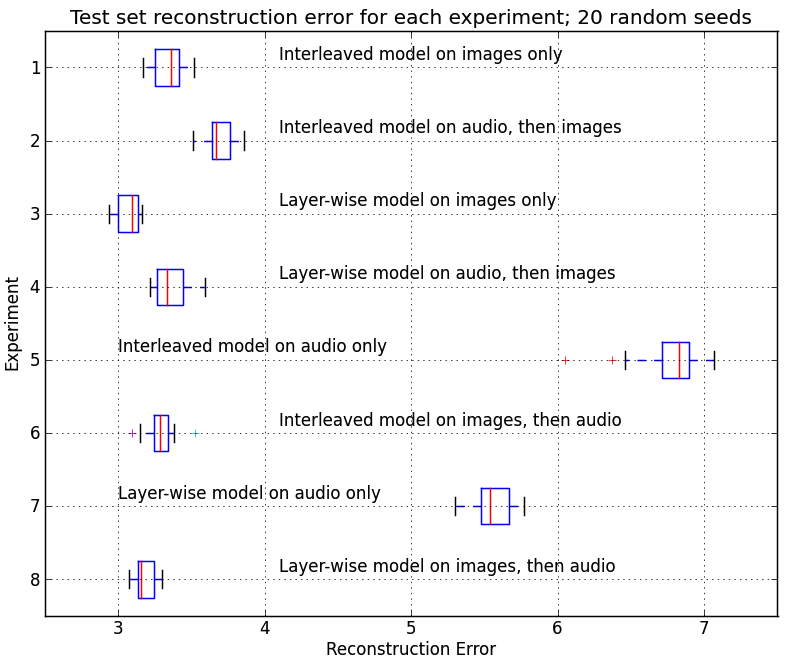
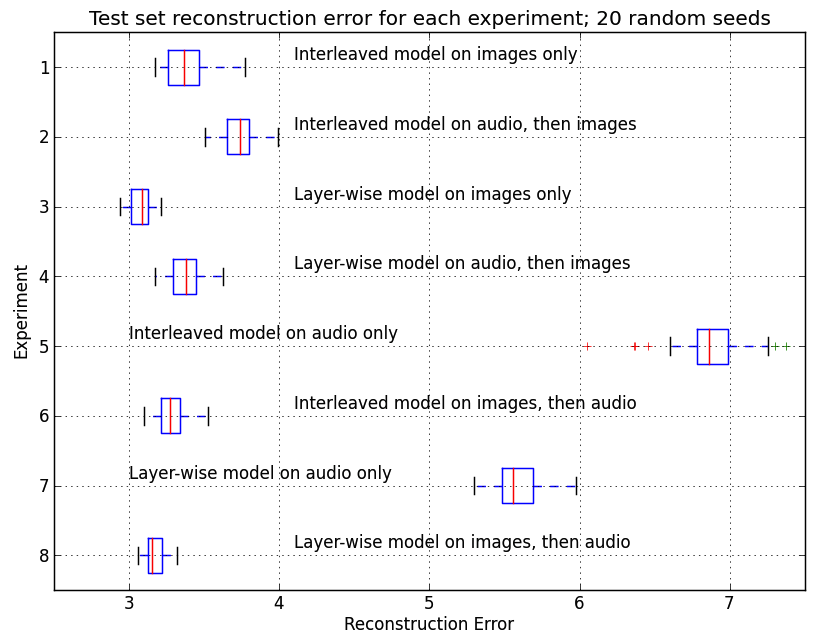
cleanup old files, new plot, update readme, learn git

diff --git a/README.md b/README.md
@@ -1,9 +1,20 @@
 deep-planning
 =============
 
-An application of stacked denoising autoencoders to planning strategies in non-deterministic multiplayer games.
+# An application of stacked denoising autoencoders to multi-modal (images and audio) abstract feature discovery
+
+## Abstract
+One of the most impressive qualities of the brain is its neuro-plasticity. The neocortex has roughly the same structure throughout its whole surface, yet it is involved in a variety of different tasks from vision to motor control, and regions which once performed one task can learn to perform another \cite{hawkins2004intelligence}. Machine learning algorithms which aim to be plausible models of the neocortex should also display this plasticity. One such candidate is the stacked denoising autoencoder (SDA). SDA's have shown promising results in the field of machine perception where they have been used to learn abstract features from unlabeled data. \cite{larochelle2007empirical, le2011building, vincent2008extracting} In this thesis I develop a flexible distributed implementation of an SDA and train it on images and audio spectrograms to experimentally determine properties comparable to neuro-plasticity, Specifically, I compare the visual-auditory generalization between a multi-level denoising autoencoder trained with greedy, layer-wise pre-training (GLWPT), to one trained without. I test a hypothesis that networks pre-trained on one sensory modality will perform better on the other modality than randomly initialized networks trained for an equal total number of epochs. Furthermore, I also test the hypothesis that the magnitude of improvement gained from this pre-training is greater when GLWPT is applied than when it is not.
 
 
 
-#### Dependencies
-Theano
+## Dependencies
+python 2.6 or 2.7
+Theano 
+numpy
+matplotlib
+PIL (Python Imaging Library)
+
+## Overview
+
+plas.py runs the main experiment. The locations of the datasets are hardcoded in plas.py to external drives on my development machine. Those datasets can be produced from the MFLICKR-1M dataset and collected wav files using imageprep.py and audioprep.py respectively.
